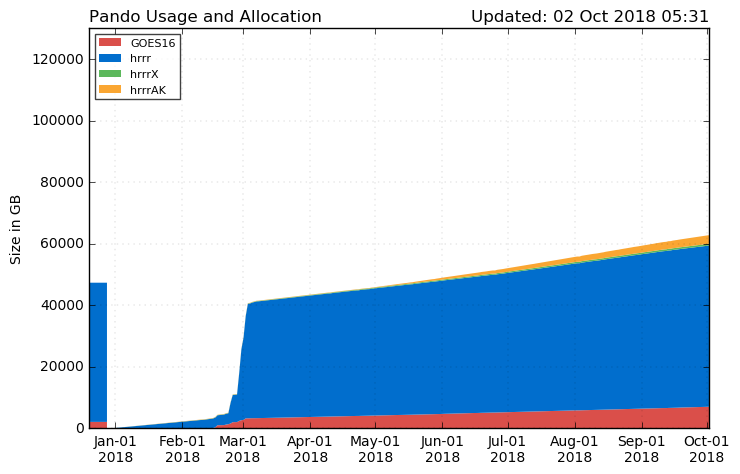
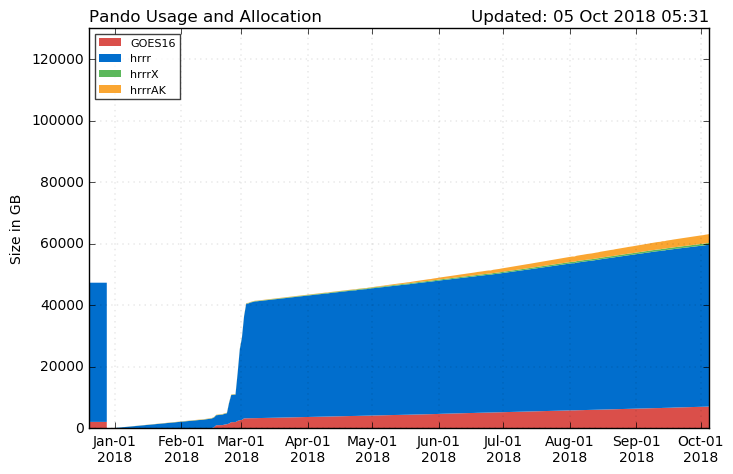
updates

diff --git a/hrrr_fires.html b/hrrr_fires.html
@@ -49,7 +49,7 @@ This page is created dynamically in the scirpt /oper/HRRR_fires/manager.py
 <tr><th>Name</th> <th>State</th> <th>Size (acres)</th> <th>Start Date</th></tr>
 <tr><td>
         <div class="btn-group" role="group" aria-label="..." style="padding-bottom:3px">
-        <a href="http://home.chpc.utah.edu/~u0553130/Brian_Blaylock/cgi-bin/photo_viewer_fire.cgi?FIRE=GOLD_HILL" class="btn btn-warning" style="width:175px"><b><i class="fab fa-gripfire"></i> GOLD HILL</b></a>  <div class="btn-group" role="group">
+        <a href="http://home.chpc.utah.edu/~u0553130/Brian_Blaylock/cgi-bin/photo_viewer_fire.cgi?FIRE=ALDER" class="btn btn-warning" style="width:175px"><b><i class="fab fa-gripfire"></i> ALDER</b></a>  <div class="btn-group" role="group">
         <!--
         <a class="btn btn-warning dropdown-toggle" data-toggle="dropdown" aria-haspopup="true" aria-expanded="false">
         <i class="far fa-clock"></i>
@@ -57,14 +57,14 @@ This page is created dynamically in the scirpt /oper/HRRR_fires/manager.py
         </a>
         <ul class="dropdown-menu">
         <li>Other Data/Figures:</li>
-        <li><a href="http://home.chpc.utah.edu/~u0553130/PhD/HRRR_fires/GOLD_HILL">More Plots</a></li>
-        <li><a href="http://home.chpc.utah.edu/~u0553130/Brian_Blaylock/cgi-bin/hrrr_fires_alert.cgi?fire=GOLD HILL">Past Wind Events</a></li>
+        <li><a href="http://home.chpc.utah.edu/~u0553130/PhD/HRRR_fires/ALDER">More Plots</a></li>
+        <li><a href="http://home.chpc.utah.edu/~u0553130/Brian_Blaylock/cgi-bin/hrrr_fires_alert.cgi?fire=ALDER">Past Wind Events</a></li>
         </ul>
         -->
         </div>
-        </div></td><td>Montana</td> <td>6,602.0</td><td>2018-08-11 00:00:00</td></tr><tr><td>
+        </div></td><td>nan</td> <td>nan</td><td>nan</td></tr><tr><td>
         <div class="btn-group" role="group" aria-label="..." style="padding-bottom:3px">
-        <a href="http://home.chpc.utah.edu/~u0553130/Brian_Blaylock/cgi-bin/photo_viewer_fire.cgi?FIRE=MIRROR_LAKE_COMPLEX" class="btn btn-warning" style="width:175px"><b><i class="fab fa-gripfire"></i> MIRROR LAKE COMPLEX</b></a>  <div class="btn-group" role="group">
+        <a href="http://home.chpc.utah.edu/~u0553130/Brian_Blaylock/cgi-bin/photo_viewer_fire.cgi?FIRE=BACON_RIND" class="btn btn-warning" style="width:175px"><b><i class="fab fa-gripfire"></i> BACON RIND</b></a>  <div class="btn-group" role="group">
         <!--
         <a class="btn btn-warning dropdown-toggle" data-toggle="dropdown" aria-haspopup="true" aria-expanded="false">
         <i class="far fa-clock"></i>
@@ -72,14 +72,14 @@ This page is created dynamically in the scirpt /oper/HRRR_fires/manager.py
         </a>
         <ul class="dropdown-menu">
         <li>Other Data/Figures:</li>
-        <li><a href="http://home.chpc.utah.edu/~u0553130/PhD/HRRR_fires/MIRROR_LAKE_COMPLEX">More Plots</a></li>
-        <li><a href="http://home.chpc.utah.edu/~u0553130/Brian_Blaylock/cgi-bin/hrrr_fires_alert.cgi?fire=MIRROR LAKE COMPLEX">Past Wind Events</a></li>
+        <li><a href="http://home.chpc.utah.edu/~u0553130/PhD/HRRR_fires/BACON_RIND">More Plots</a></li>
+        <li><a href="http://home.chpc.utah.edu/~u0553130/Brian_Blaylock/cgi-bin/hrrr_fires_alert.cgi?fire=BACON RIND">Past Wind Events</a></li>
         </ul>
         -->
         </div>
-        </div></td><td>Utah</td> <td>5,137.0</td><td>2018-09-22 00:00:00</td></tr><tr><td>
+        </div></td><td>nan</td> <td>nan</td><td>nan</td></tr><tr><td>
         <div class="btn-group" role="group" aria-label="..." style="padding-bottom:3px">
-        <a href="http://home.chpc.utah.edu/~u0553130/Brian_Blaylock/cgi-bin/photo_viewer_fire.cgi?FIRE=PROSPECT" class="btn btn-warning" style="width:175px"><b><i class="fab fa-gripfire"></i> PROSPECT</b></a>  <div class="btn-group" role="group">
+        <a href="http://home.chpc.utah.edu/~u0553130/Brian_Blaylock/cgi-bin/photo_viewer_fire.cgi?FIRE=COUGAR_CREEK" class="btn btn-warning" style="width:175px"><b><i class="fab fa-gripfire"></i> COUGAR CREEK</b></a>  <div class="btn-group" role="group">
         <!--
         <a class="btn btn-warning dropdown-toggle" data-toggle="dropdown" aria-haspopup="true" aria-expanded="false">
         <i class="far fa-clock"></i>
@@ -87,14 +87,14 @@ This page is created dynamically in the scirpt /oper/HRRR_fires/manager.py
         </a>
         <ul class="dropdown-menu">
         <li>Other Data/Figures:</li>
-        <li><a href="http://home.chpc.utah.edu/~u0553130/PhD/HRRR_fires/PROSPECT">More Plots</a></li>
-        <li><a href="http://home.chpc.utah.edu/~u0553130/Brian_Blaylock/cgi-bin/hrrr_fires_alert.cgi?fire=PROSPECT">Past Wind Events</a></li>
+        <li><a href="http://home.chpc.utah.edu/~u0553130/PhD/HRRR_fires/COUGAR_CREEK">More Plots</a></li>
+        <li><a href="http://home.chpc.utah.edu/~u0553130/Brian_Blaylock/cgi-bin/hrrr_fires_alert.cgi?fire=COUGAR CREEK">Past Wind Events</a></li>
         </ul>
         -->
         </div>
-        </div></td><td>Idaho</td> <td>7,024.0</td><td>2018-09-25 00:00:00</td></tr><tr><td>
+        </div></td><td>nan</td> <td>nan</td><td>nan</td></tr><tr><td>
         <div class="btn-group" role="group" aria-label="..." style="padding-bottom:3px">
-        <a href="http://home.chpc.utah.edu/~u0553130/Brian_Blaylock/cgi-bin/photo_viewer_fire.cgi?FIRE=RANGE_TWO" class="btn btn-warning" style="width:175px"><b><i class="fab fa-gripfire"></i> RANGE TWO</b></a>  <div class="btn-group" role="group">
+        <a href="http://home.chpc.utah.edu/~u0553130/Brian_Blaylock/cgi-bin/photo_viewer_fire.cgi?FIRE=DELTA" class="btn btn-warning" style="width:175px"><b><i class="fab fa-gripfire"></i> DELTA</b></a>  <div class="btn-group" role="group">
         <!--
         <a class="btn btn-warning dropdown-toggle" data-toggle="dropdown" aria-haspopup="true" aria-expanded="false">
         <i class="far fa-clock"></i>
@@ -102,14 +102,14 @@ This page is created dynamically in the scirpt /oper/HRRR_fires/manager.py
         </a>
         <ul class="dropdown-menu">
         <li>Other Data/Figures:</li>
-        <li><a href="http://home.chpc.utah.edu/~u0553130/PhD/HRRR_fires/RANGE_TWO">More Plots</a></li>
-        <li><a href="http://home.chpc.utah.edu/~u0553130/Brian_Blaylock/cgi-bin/hrrr_fires_alert.cgi?fire=RANGE TWO">Past Wind Events</a></li>
+        <li><a href="http://home.chpc.utah.edu/~u0553130/PhD/HRRR_fires/DELTA">More Plots</a></li>
+        <li><a href="http://home.chpc.utah.edu/~u0553130/Brian_Blaylock/cgi-bin/hrrr_fires_alert.cgi?fire=DELTA">Past Wind Events</a></li>
         </ul>
         -->
         </div>
-        </div></td><td>Nevada</td> <td>5,000.0</td><td>2018-09-30 00:00:00</td></tr><tr><td>
+        </div></td><td>nan</td> <td>nan</td><td>nan</td></tr><tr><td>
         <div class="btn-group" role="group" aria-label="..." style="padding-bottom:3px">
-        <a href="http://home.chpc.utah.edu/~u0553130/Brian_Blaylock/cgi-bin/photo_viewer_fire.cgi?FIRE=RYAN" class="btn btn-warning" style="width:175px"><b><i class="fab fa-gripfire"></i> RYAN</b></a>  <div class="btn-group" role="group">
+        <a href="http://home.chpc.utah.edu/~u0553130/Brian_Blaylock/cgi-bin/photo_viewer_fire.cgi?FIRE=KLONDIKE" class="btn btn-warning" style="width:175px"><b><i class="fab fa-gripfire"></i> KLONDIKE</b></a>  <div class="btn-group" role="group">
         <!--
         <a class="btn btn-warning dropdown-toggle" data-toggle="dropdown" aria-haspopup="true" aria-expanded="false">
         <i class="far fa-clock"></i>
@@ -117,14 +117,14 @@ This page is created dynamically in the scirpt /oper/HRRR_fires/manager.py
         </a>
         <ul class="dropdown-menu">
         <li>Other Data/Figures:</li>
-        <li><a href="http://home.chpc.utah.edu/~u0553130/PhD/HRRR_fires/RYAN">More Plots</a></li>
-        <li><a href="http://home.chpc.utah.edu/~u0553130/Brian_Blaylock/cgi-bin/hrrr_fires_alert.cgi?fire=RYAN">Past Wind Events</a></li>
+        <li><a href="http://home.chpc.utah.edu/~u0553130/PhD/HRRR_fires/KLONDIKE">More Plots</a></li>
+        <li><a href="http://home.chpc.utah.edu/~u0553130/Brian_Blaylock/cgi-bin/hrrr_fires_alert.cgi?fire=KLONDIKE">Past Wind Events</a></li>
         </ul>
         -->
         </div>
-        </div></td><td>Colorado</td> <td>23,779.0</td><td>2018-09-15 00:00:00</td></tr><tr><td>
+        </div></td><td>nan</td> <td>nan</td><td>nan</td></tr><tr><td>
         <div class="btn-group" role="group" aria-label="..." style="padding-bottom:3px">
-        <a href="http://home.chpc.utah.edu/~u0553130/Brian_Blaylock/cgi-bin/photo_viewer_fire.cgi?FIRE=SILVER_CREEK" class="btn btn-warning" style="width:175px"><b><i class="fab fa-gripfire"></i> SILVER CREEK</b></a>  <div class="btn-group" role="group">
+        <a href="http://home.chpc.utah.edu/~u0553130/Brian_Blaylock/cgi-bin/photo_viewer_fire.cgi?FIRE=PLATYPUS" class="btn btn-warning" style="width:175px"><b><i class="fab fa-gripfire"></i> PLATYPUS</b></a>  <div class="btn-group" role="group">
         <!--
         <a class="btn btn-warning dropdown-toggle" data-toggle="dropdown" aria-haspopup="true" aria-expanded="false">
         <i class="far fa-clock"></i>
@@ -132,12 +132,57 @@ This page is created dynamically in the scirpt /oper/HRRR_fires/manager.py
         </a>
         <ul class="dropdown-menu">
         <li>Other Data/Figures:</li>
-        <li><a href="http://home.chpc.utah.edu/~u0553130/PhD/HRRR_fires/SILVER_CREEK">More Plots</a></li>
-        <li><a href="http://home.chpc.utah.edu/~u0553130/Brian_Blaylock/cgi-bin/hrrr_fires_alert.cgi?fire=SILVER CREEK">Past Wind Events</a></li>
+        <li><a href="http://home.chpc.utah.edu/~u0553130/PhD/HRRR_fires/PLATYPUS">More Plots</a></li>
+        <li><a href="http://home.chpc.utah.edu/~u0553130/Brian_Blaylock/cgi-bin/hrrr_fires_alert.cgi?fire=PLATYPUS">Past Wind Events</a></li>
         </ul>
         -->
         </div>
-        </div></td><td>Colorado</td> <td>19,015.0</td><td>2018-07-19 00:00:00</td></tr><tr><td>
+        </div></td><td>nan</td> <td>nan</td><td>nan</td></tr><tr><td>
+        <div class="btn-group" role="group" aria-label="..." style="padding-bottom:3px">
+        <a href="http://home.chpc.utah.edu/~u0553130/Brian_Blaylock/cgi-bin/photo_viewer_fire.cgi?FIRE=POLE_CREEK" class="btn btn-warning" style="width:175px"><b><i class="fab fa-gripfire"></i> POLE CREEK</b></a>  <div class="btn-group" role="group">
+        <!--
+        <a class="btn btn-warning dropdown-toggle" data-toggle="dropdown" aria-haspopup="true" aria-expanded="false">
+        <i class="far fa-clock"></i>
+        <span class="caret"></span>
+        </a>
+        <ul class="dropdown-menu">
+        <li>Other Data/Figures:</li>
+        <li><a href="http://home.chpc.utah.edu/~u0553130/PhD/HRRR_fires/POLE_CREEK">More Plots</a></li>
+        <li><a href="http://home.chpc.utah.edu/~u0553130/Brian_Blaylock/cgi-bin/hrrr_fires_alert.cgi?fire=POLE CREEK">Past Wind Events</a></li>
+        </ul>
+        -->
+        </div>
+        </div></td><td>nan</td> <td>nan</td><td>nan</td></tr><tr><td>
+        <div class="btn-group" role="group" aria-label="..." style="padding-bottom:3px">
+        <a href="http://home.chpc.utah.edu/~u0553130/Brian_Blaylock/cgi-bin/photo_viewer_fire.cgi?FIRE=RIGGS_FIRE_&AMP;_LONELY" class="btn btn-warning" style="width:175px"><b><i class="fab fa-gripfire"></i> RIGGS FIRE &AMP; LONELY</b></a>  <div class="btn-group" role="group">
+        <!--
+        <a class="btn btn-warning dropdown-toggle" data-toggle="dropdown" aria-haspopup="true" aria-expanded="false">
+        <i class="far fa-clock"></i>
+        <span class="caret"></span>
+        </a>
+        <ul class="dropdown-menu">
+        <li>Other Data/Figures:</li>
+        <li><a href="http://home.chpc.utah.edu/~u0553130/PhD/HRRR_fires/RIGGS_FIRE_&AMP;_LONELY">More Plots</a></li>
+        <li><a href="http://home.chpc.utah.edu/~u0553130/Brian_Blaylock/cgi-bin/hrrr_fires_alert.cgi?fire=RIGGS FIRE &AMP; LONELY">Past Wind Events</a></li>
+        </ul>
+        -->
+        </div>
+        </div></td><td>nan</td> <td>nan</td><td>nan</td></tr><tr><td>
+        <div class="btn-group" role="group" aria-label="..." style="padding-bottom:3px">
+        <a href="http://home.chpc.utah.edu/~u0553130/Brian_Blaylock/cgi-bin/photo_viewer_fire.cgi?FIRE=TERWILLIGER" class="btn btn-warning" style="width:175px"><b><i class="fab fa-gripfire"></i> TERWILLIGER</b></a>  <div class="btn-group" role="group">
+        <!--
+        <a class="btn btn-warning dropdown-toggle" data-toggle="dropdown" aria-haspopup="true" aria-expanded="false">
+        <i class="far fa-clock"></i>
+        <span class="caret"></span>
+        </a>
+        <ul class="dropdown-menu">
+        <li>Other Data/Figures:</li>
+        <li><a href="http://home.chpc.utah.edu/~u0553130/PhD/HRRR_fires/TERWILLIGER">More Plots</a></li>
+        <li><a href="http://home.chpc.utah.edu/~u0553130/Brian_Blaylock/cgi-bin/hrrr_fires_alert.cgi?fire=TERWILLIGER">Past Wind Events</a></li>
+        </ul>
+        -->
+        </div>
+        </div></td><td>nan</td> <td>nan</td><td>nan</td></tr><tr><td>
         <div class="btn-group" role="group" aria-label="..." style="padding-bottom:3px">
         <a href="http://home.chpc.utah.edu/~u0553130/Brian_Blaylock/cgi-bin/photo_viewer_fire.cgi?FIRE=WILSON" class="btn btn-warning" style="width:175px"><b><i class="fab fa-gripfire"></i> WILSON</b></a>  <div class="btn-group" role="group">
         <!--
@@ -152,7 +197,7 @@ This page is created dynamically in the scirpt /oper/HRRR_fires/manager.py
         </ul>
         -->
         </div>
-        </div></td><td>California</td> <td>261.0</td><td>2018-09-28 00:00:00</td></tr>
+        </div></td><td>nan</td> <td>nan</td><td>nan</td></tr>
 </table>
 </div>
   <div class="col-md-6">
@@ -170,7 +215,7 @@ This page is created dynamically in the scirpt /oper/HRRR_fires/manager.py
     <p><a class='btn btn-default' style='width:100%' href="https://rmgsc.cr.usgs.gov/outgoing/GeoMAC/ActiveFirePerimeters.kml" target="_blank">Active Fire KMZ USGS <i class="fa fa-external-link-alt"></i></a>
     <p><a class='btn btn-default' style='width:100%' href="https://earthdata.nasa.gov/earth-observation-data/near-real-time/firms/active-fire-data" target="_blank">Active Fire KMZ EarthData <i class="fa fa-external-link-alt"></i></a>
     <p><a class='btn btn-success' style='width:100%' href="https://rmgsc.cr.usgs.gov/outgoing/GeoMAC/current_year_fire_data/current_year_all_states/" target="_blank">Active Fire Perimeter ShapeFile <i class="fa fa-external-link-alt"></i></a>
-    <p><a class='btn btn-success' style='width:100%' href="https://fsapps.nwcg.gov/afm/data/lg_fire/lg_fire_info_2018-10-02.txt" target="_blank">Active Fire Text <i class="fa fa-external-link-alt"></i></a>
+    <p><a class='btn btn-success' style='width:100%' href="https://fsapps.nwcg.gov/afm/data/lg_fire/lg_fire_info_2018-10-05.txt" target="_blank">Active Fire Text <i class="fa fa-external-link-alt"></i></a>
     </div>
 </center>
 </div>

diff --git a/Pando_archive/index.html b/Pando_archive/index.html
@@ -37,7 +37,7 @@
         </div>
   <br>
   <script src='./js/pando_status.js'></script>
-    <center><font size=12> 62.9 TB out of 130 TB</font>
+    <center><font size=12> 63.3 TB out of 130 TB</font>
     <div class="progress" style="max-width:700px;height:35px">
             <div class="progress-bar progress-bar-danger" role="progressbar" style="width:6%">
               <font size=4></font>
@@ -64,9 +64,9 @@
         <th style='text-align:center'>Estimated Full Date</th>
       </tr>
       <tr>
-        <td>71.24 GB</td>
-        <td>941</td>
-        <td>30 April 2021</td>
+        <td>106.18 GB</td>
+        <td>628</td>
+        <td>24 June 2020</td>
       </tr>
     </table>
     <table class="table table-bordered" style='text-align:center;max-width:700px'>
@@ -80,14 +80,14 @@
       <tr>
         <th>sfc</th>
         <td>--</td>
-        <td>0.00</td>
-        <td>0.00</td>
-        <td>0.00</td>
+        <td>23.36</td>
+        <td>0.48</td>
+        <td>7.68</td>
       </tr>
       <tr>
         <th>prs</th>
         <td>--</td>
-        <td>0.00</td>
+        <td>3.16</td>
         <td>0.00</td>
         <td>0.00</td>
       </tr>
@@ -100,10 +100,10 @@
       </tr>
       <tr>
         <th>Total</th>
-        <th>19.2 GB</th>
-        <th>0.00 GB</th>
-        <th>0.00 GB</th>
-        <th>0.00 GB</th>
+        <th>19.8 GB</th>
+        <th>26.52 GB</th>
+        <th>0.48 GB</th>
+        <th>7.68 GB</th>
       </tr>
     </table>
 
